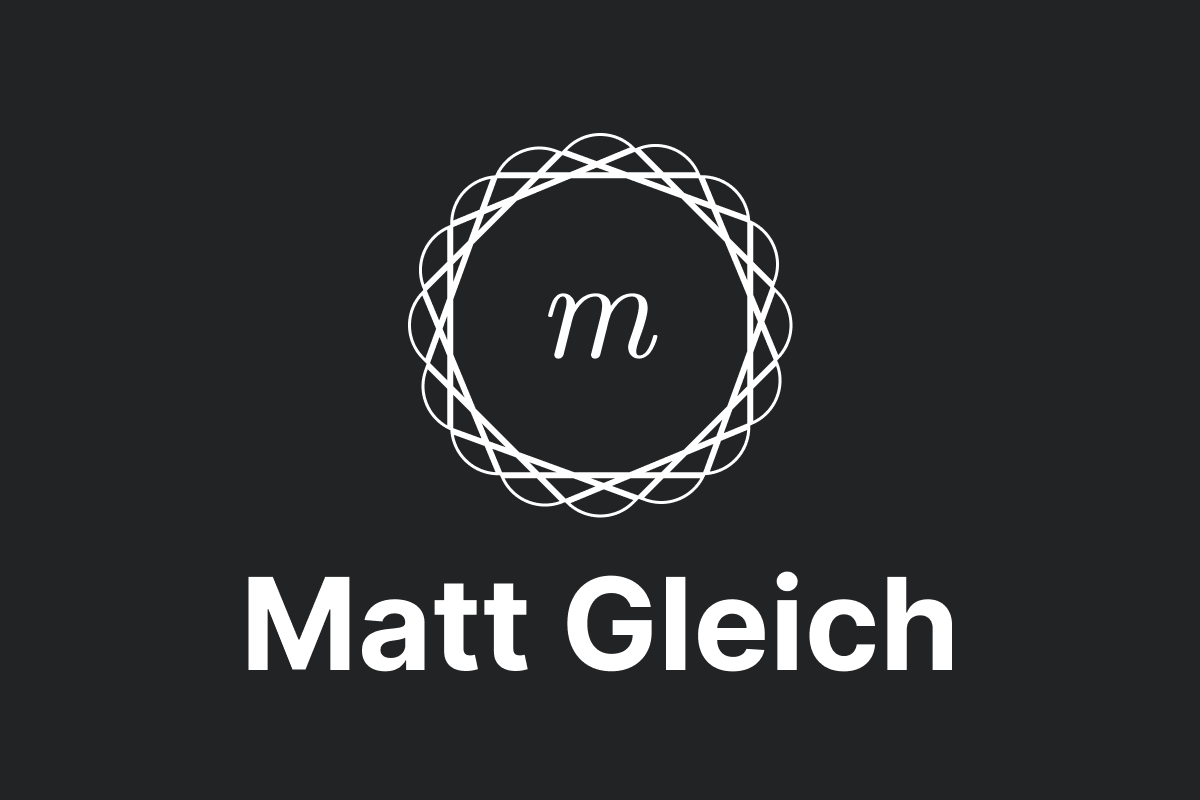
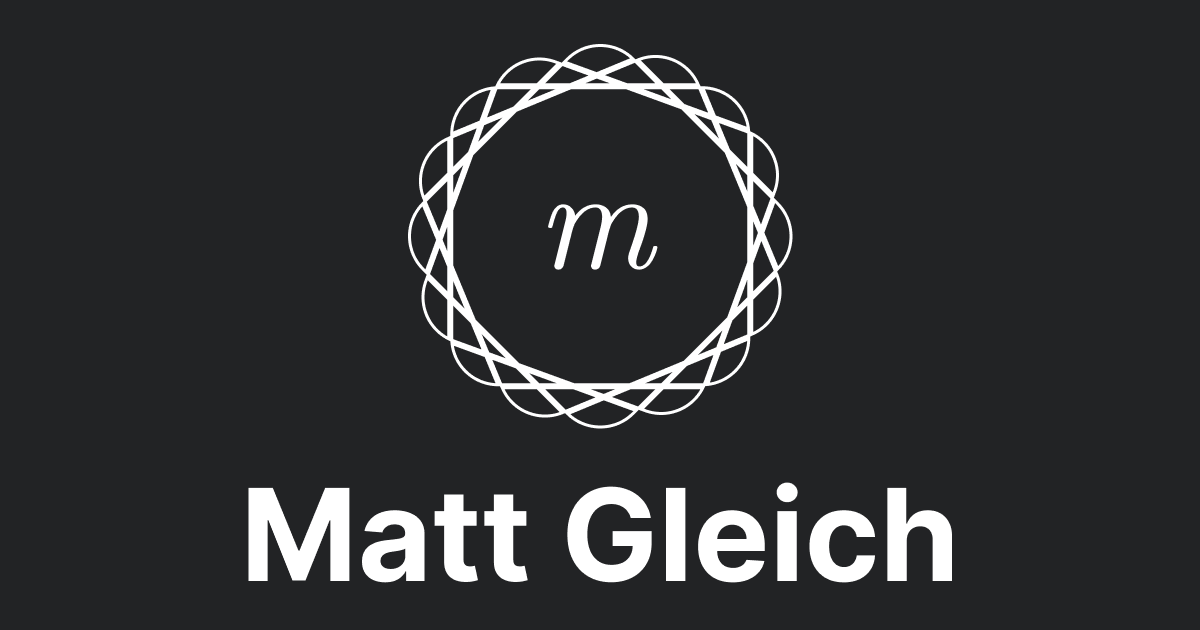
feat: pictures for lcp article

Changed region(s): [[0.185, 0.0603, 0.8017, 0.9349], [0.4317, 0.3016, 0.555, 0.4524]]

diff --git a/src/lib/writing.svelte b/src/lib/writing.svelte
@@ -1,17 +1,22 @@
 <script lang="ts">
 	import type { Snippet } from 'svelte';
-	import DynamicHead from './dynamic-head.svelte';
+	import DynamicHead, { type OpenGraphImage } from './dynamic-head.svelte';
 
 	export interface WritingData {
 		title: string;
 		publishedDate: string;
 		description: string;
+		opengraphImage?: OpenGraphImage;
 	}
 
 	const { writing, children }: { writing: WritingData; children: Snippet } = $props();
 </script>
 
-<DynamicHead title={writing.title} description={writing.description} />
+<DynamicHead
+	title={writing.title}
+	description={writing.description}
+	opengraphImage={writing.opengraphImage}
+/>
 
 <div class="container">
 	<h2 class="title">{writing.title}</h2>

diff --git a/src/routes/writing/writings.ts b/src/routes/writing/writings.ts
@@ -13,7 +13,12 @@ const writings: Map<string, WritingData> = new Map([
 			title: 'lcp: Lightweight Cache & Proxy',
 			publishedDate: dayjs('2025-03-30').format(dateFormat),
 			description:
-				'Technical writeup of a lightweight cache proxy written in Go. Backend service for caching, processing, and aggregating data from APIs like the Strava and GitHub API.'
+				'Technical writeup of a lightweight cache proxy written in Go. Backend service for caching, processing, and aggregating data from APIs like the Strava and GitHub API.',
+			opengraphImage: {
+				url: 'https://beta.mattglei.ch/writings/lcp/opengraph.png',
+				width: '1200',
+				height: '630'
+			}
 		}
 	]
 ]);

diff --git a/src/routes/writing/lcp/+page.svelte b/src/routes/writing/lcp/+page.svelte
@@ -1,5 +1,6 @@
 <script lang="ts">
 	import Card from '$lib/card.svelte';
+	import Image from '$lib/image.svelte';
 	import Writing from '$lib/writing.svelte';
 	import writings from '../writings';
 	import type { LCPData } from './+page.server';
@@ -53,6 +54,7 @@
 
 	<Card>
 		<h3>System Overview</h3>
+		<img class="overview-diagram" src="/writings/lcp/overview.webp" alt="Overview diagram" />
 		<p>
 			The diagram above illustrates how each cache gets updated. There are two main types of caches
 			here:
@@ -242,5 +244,10 @@
 
 	.custom-list p::before {
 		content: '- ';
+	}
+
+	.overview-diagram {
+		width: 100%;
+		height: auto;
 	}
 </style>

diff --git a/src/lib/index/sections/projects/project-section.svelte b/src/lib/index/sections/projects/project-section.svelte
@@ -78,7 +78,7 @@
 				</Card>
 			{/each}
 		</div>
-		<a class="view-more" href="https://github.com/gleich?tab=repositories">
+		<a class="view-more" href="https://github.com/gleich?tab=repositories" target="_blank">
 			<ViewButton more on="GitHub" icon={Github} />
 		</a>
 	{:else}
